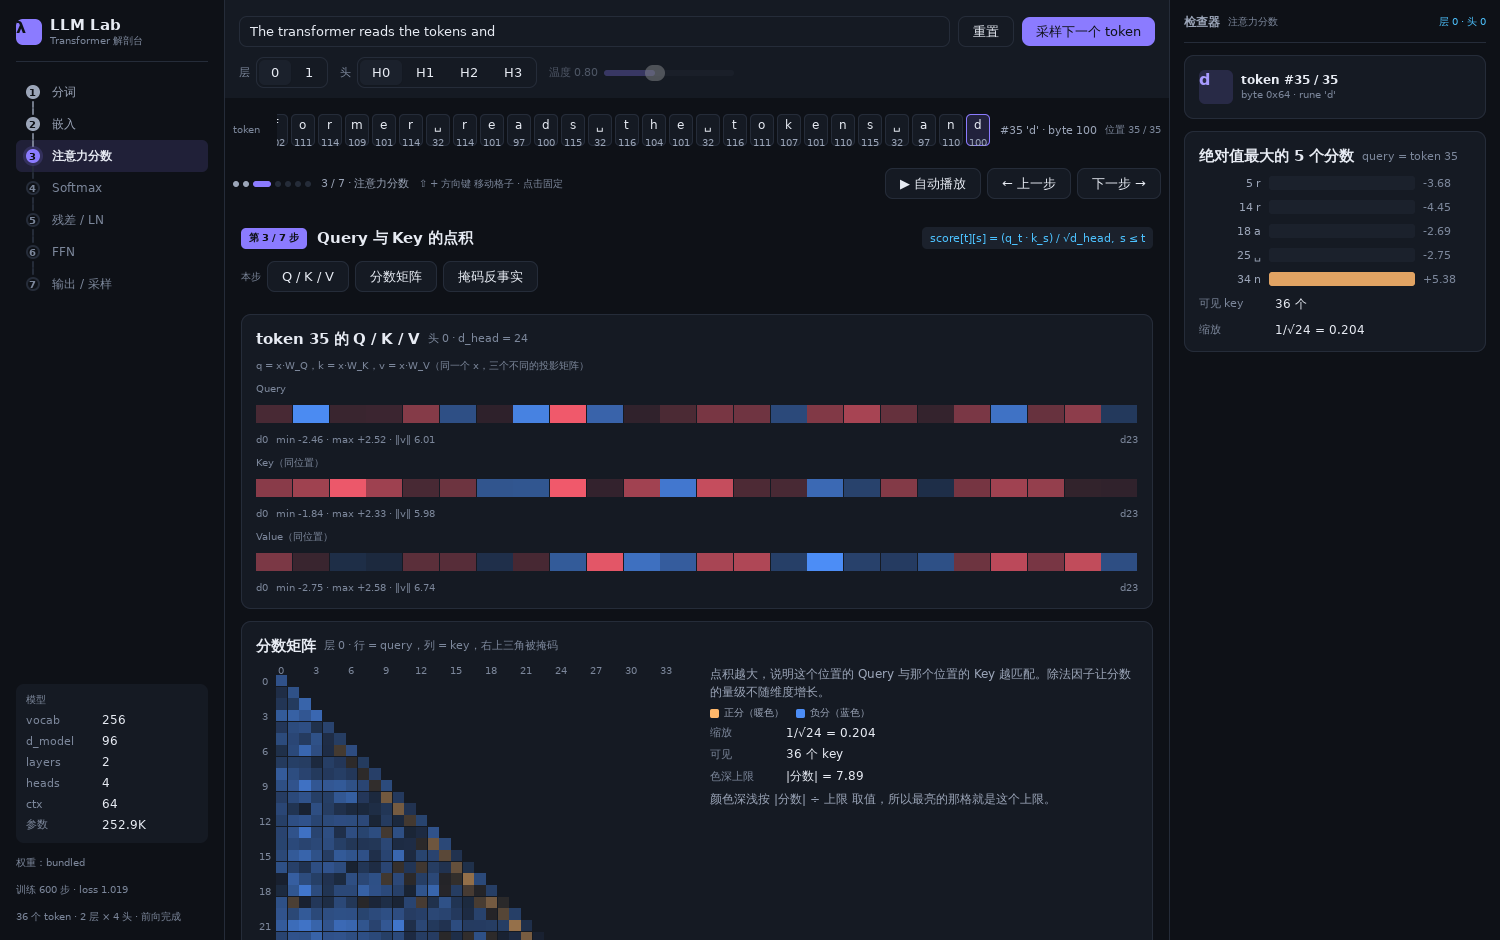
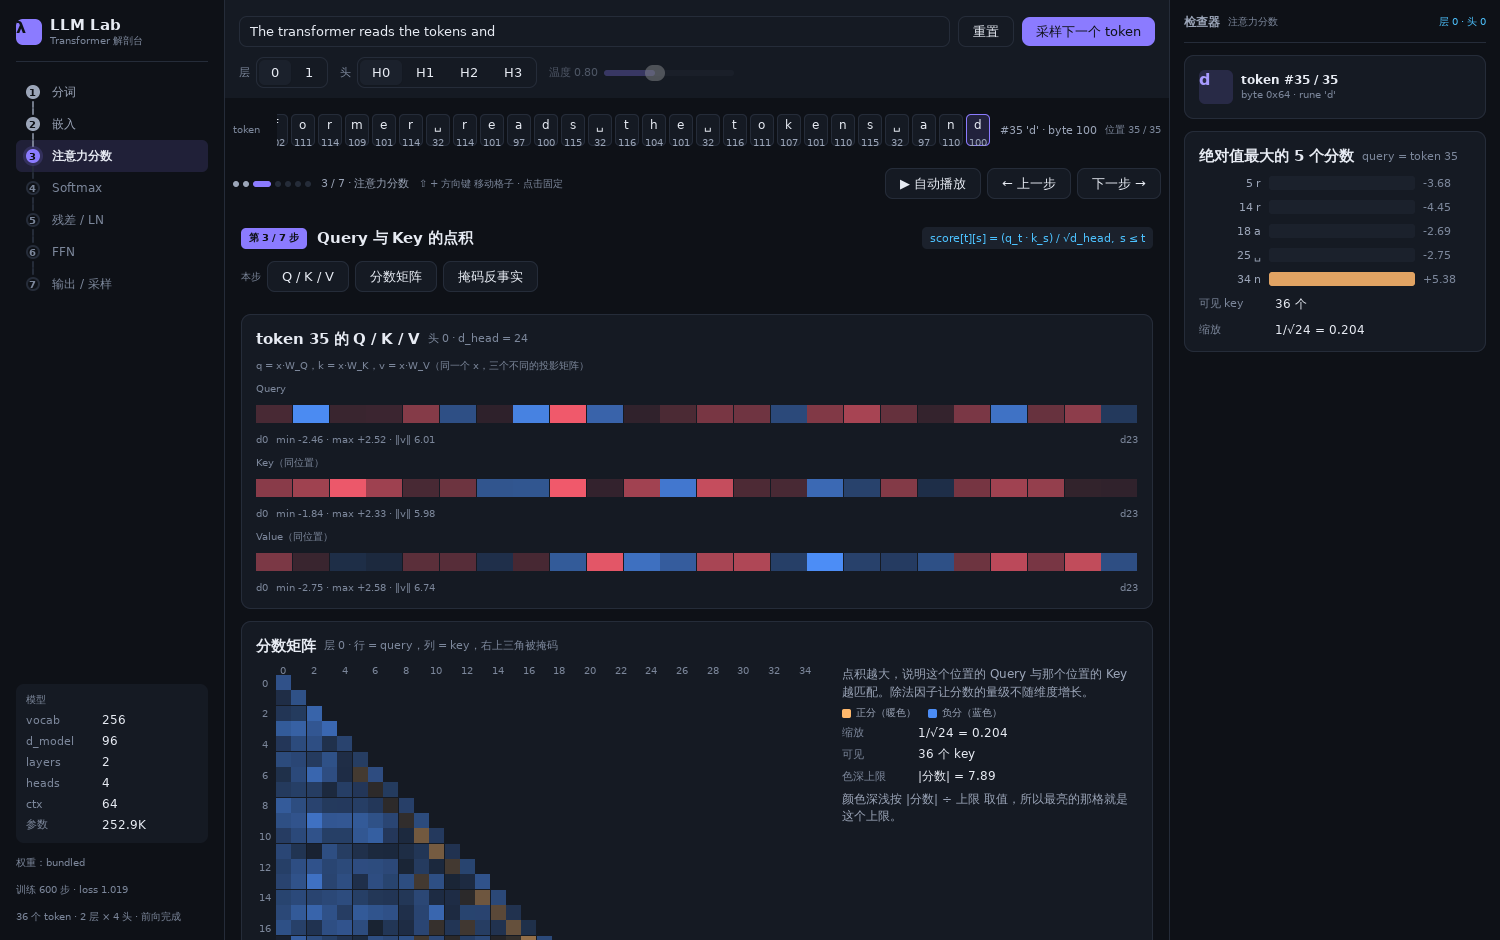
fix(app): let the heatmap grow on wide windows, and keep the gutter out of the grid
The matrix stopped growing past 1500 wide. heatmapAxed started avail at a hard 420 and only ever
lowered it, so the 20-DIP cell cap below could never bind — 420 is smaller than 20 times the token
count. Deriving avail from that cap lets the window decide how many cells fit: 440 to 572 DIP at
1500, to 712 at 1920, and 740 at 2560 and 3840 where the cell cap does correctly bind.

A height bound had to come with it. c.Size() at that point reports the window rather than the space
the column was given — measured as (1500,940) — so the fixed chrome is subtracted here: 228 DIP of
step bar and controls, measured identical at every window size, plus 160 for the card padding, chip
row and axis labels. Six window sizes were checked and none overflows.

Enlarging the cells exposed a separate bug that had always been there. The hit test converted
x/cw to int after subtracting the gutter, and Go truncates toward zero, so a pointer 18 DIP into the
label margin gave int(-0.9) = 0 and passed the k >= 0 check as cell 0. A wider cell makes the gutter
a smaller fraction of one, which is what moved the quotient from below -1 to inside (-1,0) and made
the false hit visible. The guard now rejects a negative offset before the division.

That also closes out the two previous rounds. The earlier symptom — cell (1,0) failing while cell
(4,0) at the same x succeeded — was the top of the grid sitting under the fixed step bar, found by
[…]

Changed region(s): [[0.46, 0.7096, 0.7667, 0.8947], [0.184, 0.7096, 0.368, 1.0]]

diff --git a/internal/app/widgets.go b/internal/app/widgets.go
@@ -409,9 +409,24 @@ func (a *App) heatmapAxed(c *ui.Context, attn [][]float32, kind string, axes boo
 	// Size the matrix from the space the window actually leaves for it, so the
 	// cells stay square and every column fits instead of being squeezed by the
 	// flexbox. The right-hand column of the card needs roughly 240px.
-	avail := float32(420)
-	if w, _ := c.Size(); w > 0 {
+	// The matrix is bounded on both axes. The width bound leaves room for the bar list beside it;
+	// the height bound keeps the whole matrix inside the stage viewport, which starts below the
+	// fixed step bar. c.Size() reports the window, not the space this column was given — measured
+	// as (1500,940) at that point — so the chrome has to be subtracted here.
+	//
+	// A matrix taller than the viewport cannot be scrolled fully into view at any offset: its top
+	// rows stay under the bar and PointerPosition reports no element there, so hovering them
+	// yields no cell. Measured at 1500x940 with T=36: an unbounded matrix reached 653 DIP with its
+	// top at y=159 while the viewport begins at y=228.
+	const stageChrome = 228 // window top to the first scrollable row, measured at all sizes
+	const leaving = 160     // card padding, the chip row, and the axis labels below the matrix
+	const maxCell = 20      // a cell larger than this is harder to scan, not easier
+	avail := maxCell * float32(T)
+	if w, h := c.Size(); w > 0 && h > 0 {
 		if room := w - a.SidebarW - a.InspectorW - 2 - 32 - 28 - 240; room < avail {
+			avail = room
+		}
+		if room := h - stageChrome - leaving; room > 0 && room < avail {
 			avail = room
 		}
 	}
@@ -419,8 +434,8 @@ func (a *App) heatmapAxed(c *ui.Context, attn [][]float32, kind string, axes boo
 		avail = 160
 	}
 	cell := avail / float32(T)
-	if cell > 20 {
-		cell = 20
+	if cell > maxCell {
+		cell = maxCell
 	}
 	if cell < 2.5 {
 		cell = 2.5
@@ -534,8 +549,19 @@ func (a *App) heatmapAxed(c *ui.Context, attn [][]float32, kind string, axes boo
 			// Relative to the grid, so the label gutter is not a cell.
 			x -= grid.X - b.X
 			y -= grid.Y - b.Y
-			q = int(y / ch)
-			k = int(x / cw)
+			// A pointer left of or above the grid gives a negative quotient, and converting a
+			// float to int truncates toward zero — so -0.9 becomes 0 and the gutter passed the
+			// `k >= 0` check below as cell 0. Measured at 1920x1080 with T=36: a pointer at the
+			// grid's left edge, 18 DIP into the label gutter, reported cell (0,0).
+			//
+			// A wider matrix makes this easier to hit, because the gutter is a smaller fraction
+			// of a cell, so the quotient lands in (-1, 0) rather than below -1. Guarding before
+			// the conversion keeps the gutter out of the grid at every size.
+			q, k = -1, -1
+			if x >= 0 && y >= 0 {
+				q = int(y / ch)
+				k = int(x / cw)
+			}
 			if q >= T {
 				q = T - 1
 			}

diff --git a/CHANGELOG.md b/CHANGELOG.md
@@ -6,6 +6,14 @@
 
 ### Added
 
+- **前两轮卡住的 4K 热力图问题终于修好了，而且顺带揪出一个更老的 bug。**
+  - **主因**：`avail := float32(420)` 只会被下调、从不上升，`cell > 20` 的上限因此从未生效。改成 `avail := maxCell * T` 让窗口决定能放几格
+  - **必须同时加高度约束**：`c.Size()` 在这一层返回的是**整个窗口**（实测 `(1500,940)`），不是布局分配的空间，所以要在函数里减掉固定 chrome。实测 chrome 恒为 **228 DIP**（三种窗口尺寸都是），再加 160 留白
+  - **结果**：1500 宽从 440 涨到 **572**，1920 从 440 到 **712**，2560/3840 到 740（20 DIP 格子上限，合理）；六种窗口尺寸全部不溢出
+  - **顺带发现的真 bug**：`int(-18 / 19.8) = int(-0.9) = 0`——**Go 浮点转 int 向零截断**，gutter 里的负坐标被压成 0，混过了 `k >= 0` 检查，于是「指针在轴标签区」被报告成格子 (0,0)。这个 bug 一直存在，只是格子变宽后 gutter 占一格的比例变小，商落进 `(-1, 0)` 才暴露。修法：除法前先判断负值
+  - **两轮的排查记录都有了结论**：上一轮「`cell(1,0)` 失效、`cell(4,0)` 正常」是顶部被固定工具栏遮挡；这一轮 gutter 误判是截断方向问题。两者都是布局/数值细节，靠插桩打印定位
+  - docs 里 `scores.png`、`attention.png` 重新生成（热力图变大）
+
 - **上一轮留下的「4K 热力图不放大」线索查清了根因，虽然修复仍未能落地——但这次拿到了确定的机制和一条守卫。**
   - **机制**：热力图的尺寸只由**宽度**决定。宽度上限（硬编码 420）目前恰好比高度约束更紧，所以没出问题——**这个相等是巧合，不是设计**
   - 放大矩阵到 653 DIP 后，它在 1500×940 下的顶部落在 y=159，而**舞台视口从 y=228 开始**（上方步骤栏与其控件是固定的）。顶部几行因此压在固定 chrome 下面，`PointerPosition` 在那里报告「指针不在任何元素上」，悬停得不到格子
